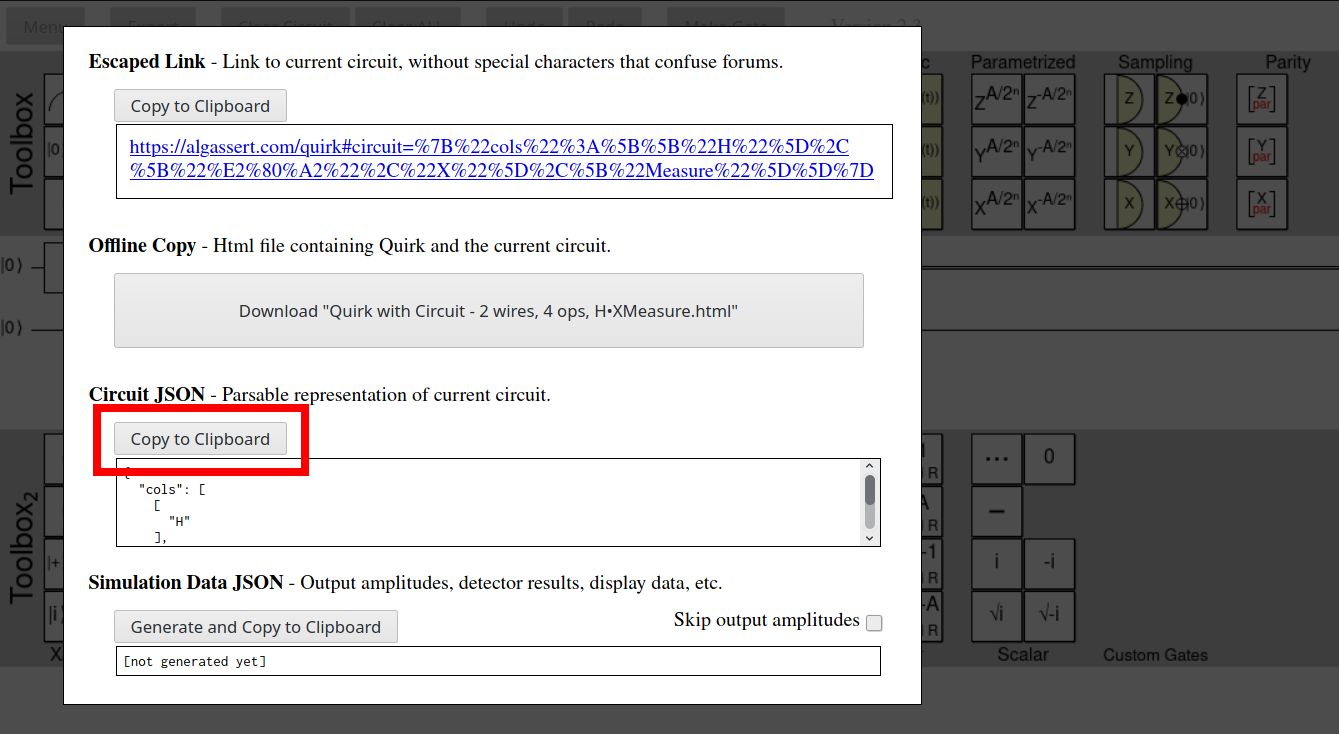
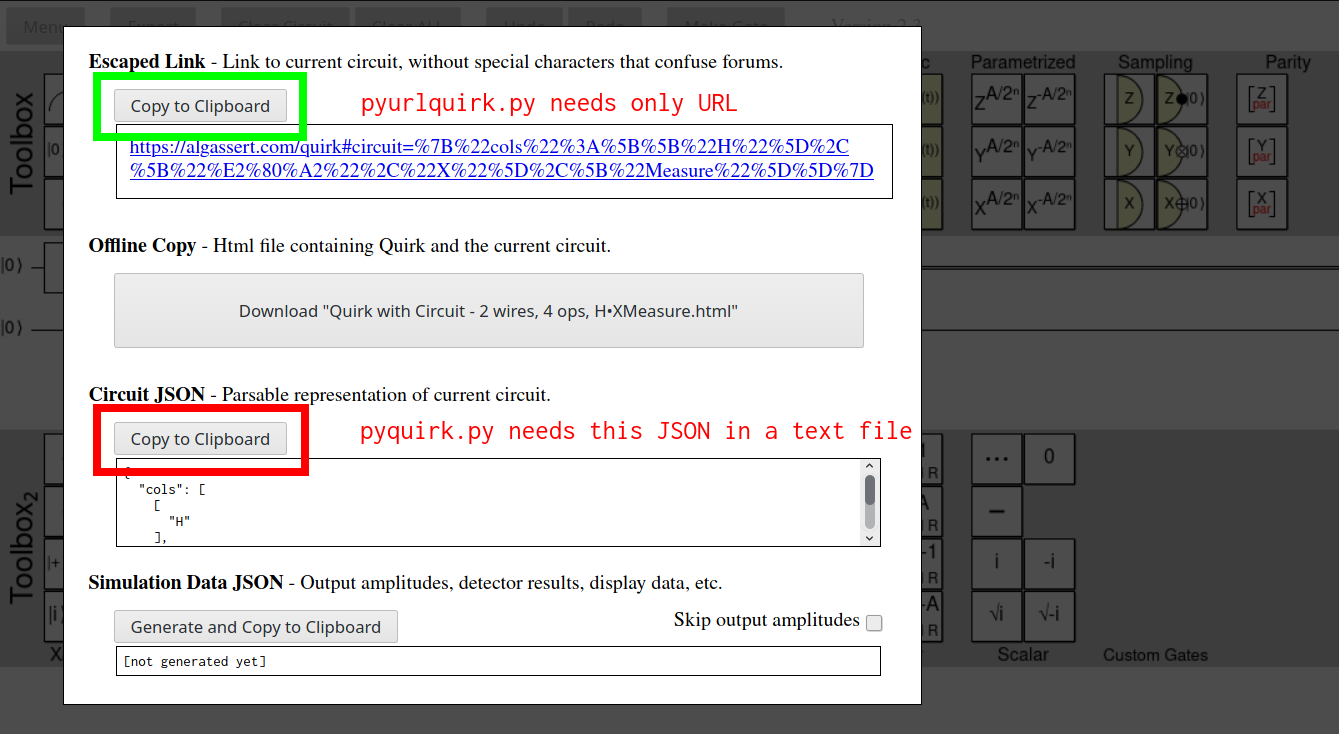
instructions for pyurlquirk

Changed region(s): [[0.0612, 0.0899, 0.245, 0.2098], [0.2756, 0.5695, 0.6736, 0.5995], [0.2756, 0.1199, 0.5512, 0.1499]]

diff --git a/README.md b/README.md
@@ -14,27 +14,34 @@ If you do not know how to manually install a new TeX package to your system, the
 - [Mac with TeXShop](https://tex.stackexchange.com/questions/12102/how-do-i-install-ctan-packages-on-mac-os-with-texshop)
 
 ## 💾 Installation and Usage
-Clone the repo for installing. `pyquirk.py` converts the JSON to TeX codes.
+Clone the repo for installing. `pyurlquirk.py` converts URL to quantikz crcuit directly. `pyquirk.py` converts the JSON to TeX codes. Both produce the same output; the usage is a matter of convenience.
 
-Copy and paste the JSON data of your circuit from [Quirk](https://algassert.com/quirk)(a toy quantum circuit simulator)
- into a `.txt` file as explained below. The output is formatted into a `.tex` file.
+Copy and paste the URL from [Quirk](https://algassert.com/quirk)(a toy quantum circuit simulator) if you are using `pyurlquirk.py`.
 
-**Syntax:** `python3 pyquirk.py input.txt output.tex`
+While using `pyquirk.py` use the JSON data of your circuit and paste it into a `.txt` file as explained below. The output is formatted into a `.tex` file.
 
-**For example:** In this repo, `python3 pyquirk.py circuit_json.txt circuit.tex`
+**Syntax:** 
+```python
+python3 pyurlquirk.py algassert_URL output.tex
+python3 pyquirk.py input.txt output.tex
+```
+
+**For example:** In this repo, 
+```python
+python3 pyurlquirk.py https://algassert.com/quirk#circuit=%7B%22cols%22%3A%5B%5B%22H%22%5D%2C%5B%22%E2%80%A2%22%2C%22X%22%5D%2C%5B%22Measure%22%5D%5D%7D circuit.tex
+python3 pyquirk.py circuit_json.txt circuit.tex`
+```
 
 Now you may include `circuit.tex` which contains only tikz environement in `main.tex` that supplements packages. Read below for clarity.
 
-### Steps to generate the `.txt` file
+### Steps to generate the URL or `.txt` file
 **Step 1:** Click on `Export` button displayed on the header of [Quirk](https://algassert.com/quirk).
 
 ![Step 1: Click Export button](quirk1-m.png)
 
-**Step 2:** `Copy to Clipboard` the JSON settings.
+**Step 2:** `Copy to Clipboard` the URL or JSON settings.
 
 ![Step 2: Click on Copy JSON settings](quirk2.png)
-
-Paste this into a `.txt` file and this must be the input.
 
 ---
 
